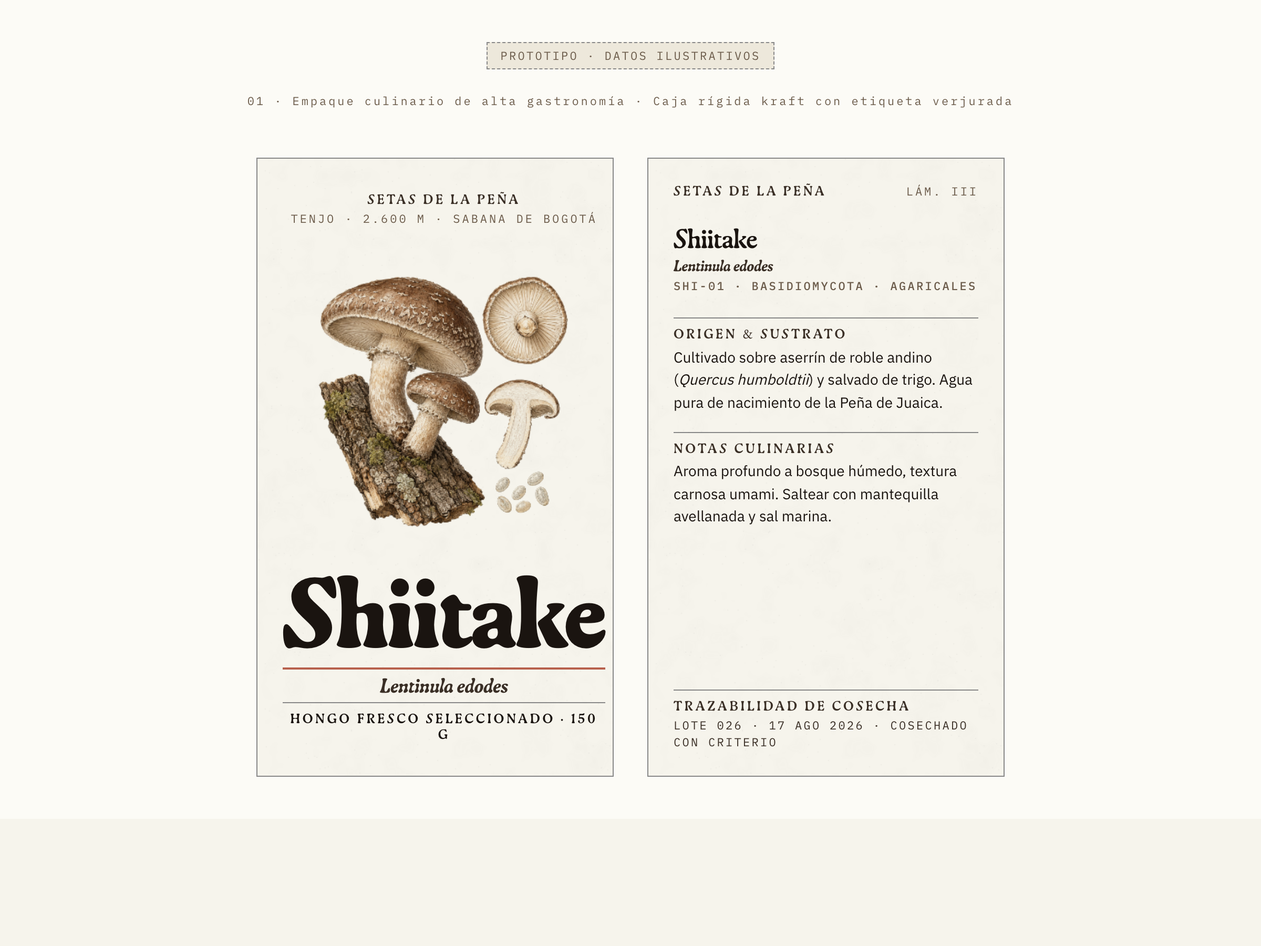
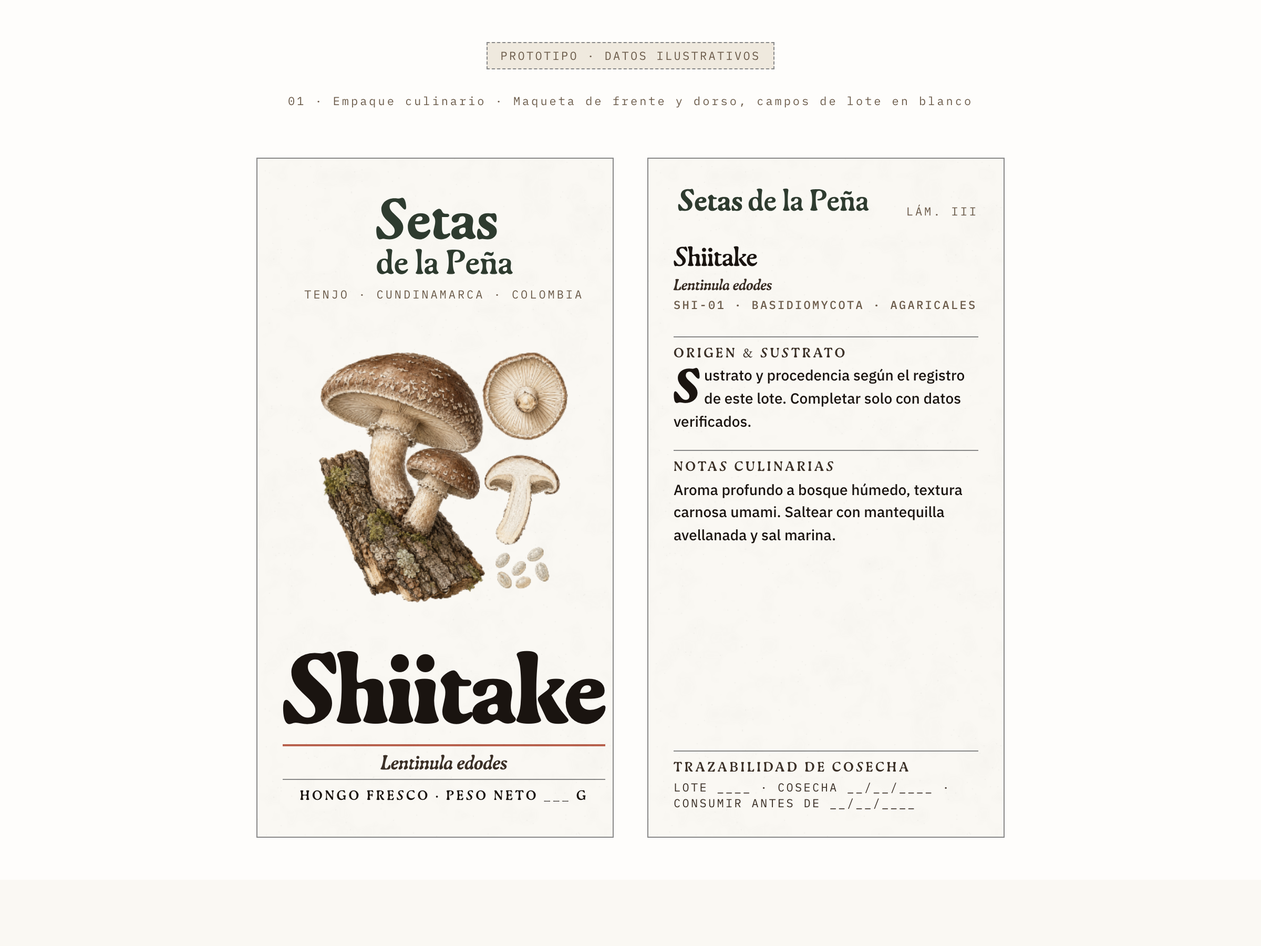
fix(ds-2026): maquetas de mercado sin datos inventados ni tuteo
- Empaque: se retira Quercus humboldtii (veda nacional, Res. 316/1974),
  «agua pura de nacimiento», lote, fecha y peso inventados; campos de lote en
  blanco y firma apilada/horizontal desde los SVG del kit.
- Tablero de marca: «Cultivadas en la Sabana. Cosechadas con criterio.» se
  reemplaza por la frase principal y el descriptor vigentes; firma territorial
  y peso de muestra en blanco.
- Manual del kit y maqueta 17: textos sin tuteo; titular «Conocer la seta.
  Imaginar el plato.».
- PNG regenerados con scripts/render.mjs; copia de Setas OS sincronizada con
  sync-consumers.mjs.

diff --git a/08_brand/ds-2026/brand-kit/index.html b/08_brand/ds-2026/brand-kit/index.html
@@ -39,7 +39,7 @@
     <div class="chapter wrap"><p class="t-label">Ingrediente. Preparación. Origen.</p><p class="t-small">Chefs primero. También en casa.</p></div>
 
     <section class="section wrap" id="criterio" aria-labelledby="criterio-title">
-      <div class="section-heading"><p class="t-label">01 / La marca</p><h2 id="criterio-title">Conoce la seta.<br>Imagina el plato.</h2></div>
+      <div class="section-heading"><p class="t-label">01 / La marca</p><h2 id="criterio-title">Conocer la seta.<br>Imaginar el plato.</h2></div>
       <div class="two-col intro-grid"><p class="lede">Hongos desde Tenjo. Láminas para reconocerlos. Ideas para llevarlos a la cocina.</p><div><p>El conocimiento empieza en la especie y encuentra su lugar en el plato: shiitake con maíz, coco o plátano.</p><p>Primero hablamos a chefs y equipos de cocina: preparación, cantidad y consulta. Quienes cocinan en casa encuentran la misma claridad a través de las recetas. La información de una cosecha se confirma por separado.</p></div></div>
       <div class="pillars"><article><span class="t-data">01</span><h3>El ingrediente</h3><p>Nombre, silueta y textura. Cada especie tiene una forma de entrar en la cocina.</p></article><article><span class="t-data">02</span><h3>La preparación</h3><p>Ideas concretas, ingredientes cercanos y cantidades que se pueden entender.</p></article><article><span class="t-data">03</span><h3>El origen</h3><p>Un lugar y un proceso contados con información que podemos comprobar.</p></article></div>
       <aside class="note"><strong>Una sola marca.</strong> Las setas, En la cocina, Origen y El cuaderno son secciones. Setas OS conserva su función operativa.</aside>
@@ -52,7 +52,7 @@
         <article><p class="t-label">Especie y preparación</p><h3>Smallhold</h3><p>Perfil y técnica junto al nombre. Para Setas: lámina reconocible y una idea de plato.</p><a href="https://smallhold.com/pages/our-mushrooms" target="_blank" rel="noopener noreferrer">Ver la ficha de especies ↗</a></article>
         <article><p class="t-label">Conversación profesional</p><h3>Foraged · Far West Fungi</h3><p>Preguntas de formato, volumen y entrega. Para Setas: preparar una consulta útil para el chef.</p><a href="https://wholesale.foraged.com/" target="_blank" rel="noopener noreferrer">Ver la ruta profesional ↗</a></article>
         <article><p class="t-label">Información del ingrediente</p><h3>Burlap &amp; Barrel</h3><p>Sabor, uso y origen juntos. Para Setas: pocos datos, claros y respaldados.</p><a href="https://www.burlapandbarrel.com/products/wild-mountain-cumin" target="_blank" rel="noopener noreferrer">Ver una ficha de producto ↗</a></article>
-        <article><p class="t-label">Aprendizaje accesible</p><h3>North Spore</h3><p>Elegir según la intención. Para Setas: empezar por lo que quieres cocinar.</p><a href="https://northspore.com/" target="_blank" rel="noopener noreferrer">Ver el referente ↗</a></article>
+        <article><p class="t-label">Aprendizaje accesible</p><h3>North Spore</h3><p>Elegir según la intención. Para Setas: empezar por la preparación.</p><a href="https://northspore.com/" target="_blank" rel="noopener noreferrer">Ver el referente ↗</a></article>
         <article><p class="t-label">Contexto colombiano</p><h3>Setas de Cuivá</h3><p>Casa y negocio tienen rutas distintas. Para Setas: una marca, dos maneras de entrar.</p><a href="https://www.champinonessetasdecuiva.com/para-tu-negocio/" target="_blank" rel="noopener noreferrer">Ver la entrada para negocio ↗</a></article>
         <article><p class="t-label">Jerarquía editorial</p><h3>Goldi · God Soppjakt!</h3><p>Título expresivo y categoría legible. Para Setas: Gaya da carácter; IBM ayuda a decidir.</p><a href="https://fontsinuse.com/uses/61619/god-soppjakt-by-mette-alstad" target="_blank" rel="noopener noreferrer">Ver el caso tipográfico ↗</a></article>
       </div>
@@ -70,7 +70,7 @@
 
     <section class="section wrap" id="sistema" aria-labelledby="sistema-title">
       <div class="section-heading"><p class="t-label">04 / Tipos y pigmentos</p><h2 id="sistema-title">Carácter y claridad.</h2></div>
-      <div class="type-grid"><article><p class="t-label">Gaya / títulos y firma</p><p class="gaya-sample">La textura también<br>es un ingrediente.</p><p class="t-latin">Lentinula edodes</p></article><article><p class="t-label">IBM Plex Sans / lectura</p><p class="sans-sample">Elige por su textura.<br>Cocina con intención.</p><p>Texto claro para instrucciones, consulta y navegación. Un cuerpo de lectura de al menos 16 px.</p></article><article><p class="t-label">IBM Plex Mono / datos</p><p class="mono-sample">300 g<br>×1 / ×2 / ×3</p><p>Cantidades de receta, rótulos y registros. Nunca un párrafo completo en mayúsculas.</p></article></div>
+      <div class="type-grid"><article><p class="t-label">Gaya / títulos y firma</p><p class="gaya-sample">La textura también<br>es un ingrediente.</p><p class="t-latin">Lentinula edodes</p></article><article><p class="t-label">IBM Plex Sans / lectura</p><p class="sans-sample">Elegir por su textura.<br>Cocinar con intención.</p><p>Texto claro para instrucciones, consulta y navegación. Un cuerpo de lectura de al menos 16 px.</p></article><article><p class="t-label">IBM Plex Mono / datos</p><p class="mono-sample">300 g<br>×1 / ×2 / ×3</p><p>Cantidades de receta, rótulos y registros. Nunca un párrafo completo en mayúsculas.</p></article></div>
       <div class="palette"><figure><div class="swatch paper"></div><figcaption>Papel <code>#FAF8F3</code></figcaption></figure><figure><div class="swatch ink"></div><figcaption>Tinta <code>#1A1410</code></figcaption></figure><figure><div class="swatch moss"></div><figcaption>Musgo <code>#2E3B2F</code></figcaption></figure><figure><div class="swatch coral"></div><figcaption>Terracota <code>#B8614D</code></figcaption></figure><figure><div class="swatch slate"></div><figcaption>Pizarra <code>#4E6A7A</code></figcaption></figure></div>
       <p class="note">Papel y tinta dominan; musgo identifica; terracota aparece puntualmente. Para texto pequeño de acento, usar terracota oscura <code>#8A3E2D</code>. La reproducción de imprenta requiere perfil y prueba física.</p>
     </section>
@@ -83,8 +83,8 @@
 
     <section class="section wrap" id="voz" aria-labelledby="voz-title">
       <div class="section-heading"><p class="t-label">06 / La voz</p><h2 id="voz-title">Cercana.<br>Cuidadosa. Precisa.</h2></div>
-      <div class="voice-grid"><article><p class="t-label">Para una cocina profesional</p><h3>Hablemos de<br>tu cocina.</h3><p>¿En qué plato estás pensando? Cuéntanos cuánto necesitas, en qué ciudad y para qué fecha. Presentación y condiciones se confirman al consultar.</p><span class="example-action">Consultar para mi cocina ↗</span></article><article><p class="t-label">Para cocinar en casa</p><h3>¿Qué quieres<br>cocinar?</h3><p>Shiitake, maíz dorado y aguacate. Empieza por la receta y calcula cuánto necesitas antes de preparar tu consulta.</p><span class="example-action">Quiero cocinar esto ↗</span></article></div>
-      <div class="two-col voice-notes"><div><h3>Decir lo que sabemos</h3><p>«Disponibilidad por confirmar. Consulta antes de planear tu pedido.»</p><p>«Adaptación de fuentes publicadas, pendiente de prueba en cocina.»</p></div><div><h3>Con palabras concretas</h3><p>Especie, textura, receta, cantidad, cosecha y origen. Explicar los términos que ayudan a decidir.</p><p>Las promesas de stock, certificación o beneficios medicinales no se deducen de una imagen.</p></div></div>
+      <div class="voice-grid"><article><p class="t-label">Para una cocina profesional</p><h3>Hablemos<br>del plato.</h3><p>¿Para qué plato y qué servicio? Con cantidad, ciudad y fecha revisamos disponibilidad. Presentación y condiciones se confirman al consultar.</p><span class="example-action">Consultar para mi cocina ↗</span></article><article><p class="t-label">Para cocinar en casa</p><h3>¿Qué cocinar<br>en casa?</h3><p>Shiitake, maíz dorado y aguacate. Primero la receta; después, la cantidad para la consulta.</p><span class="example-action">Quiero cocinar esto ↗</span></article></div>
+      <div class="two-col voice-notes"><div><h3>Decir lo que sabemos</h3><p>«Disponibilidad por confirmar. Consultar antes de planear el pedido.»</p><p>«Adaptación de fuentes publicadas, pendiente de prueba en cocina.»</p></div><div><h3>Con palabras concretas</h3><p>Especie, textura, receta, cantidad, cosecha y origen. Explicar los términos que ayudan a decidir.</p><p>Las promesas de stock, certificación o beneficios medicinales no se deducen de una imagen.</p></div></div>
     </section>
 
     <section class="section wrap" id="aplicaciones" data-mode="culinary" aria-labelledby="aplicaciones-title">
@@ -92,7 +92,7 @@
       <p class="section-intro">Composiciones de referencia para adaptar con datos reales. La especie y su uso entran primero; la información comercial se confirma.</p>
       <article class="sdp-ingredient-sheet" aria-labelledby="chef-title">
         <header class="sdp-ingredient-sheet__header"><img src="assets/wordmark-horizontal-moss.svg" alt="Setas de la Peña" width="400" height="80"><p class="t-label">Ficha para cocina / maqueta</p></header>
-        <div class="sdp-ingredient-sheet__body"><figure class="sdp-ingredient-sheet__plate"><img src="../assets/img/species/shiitake.png" alt="Ilustración de shiitake para ficha de cocina" width="700" height="700"><figcaption class="t-label">Ilustración de especie</figcaption></figure><div class="sdp-ingredient-sheet__copy"><p class="t-label">Ingrediente / 001</p><h3 class="sdp-ingredient-sheet__title" id="chef-title">Shiitake</h3><p class="t-latin">Lentinula edodes</p><p class="t-body">¿Qué lugar le darías en tu plato?</p><dl class="sdp-ingredient-sheet__facts"><div><dt>Perfil de referencia</dt><dd>Umami intenso y notas ahumadas. Referencia: Smallhold; no es una cata propia.</dd></div><div><dt>En cocina</dt><dd>Arepa y patacones con shiitake salteado; sopa de coco y jengibre. Adaptaciones pendientes de prueba.</dd></div><div><dt>Para conversar</dt><dd>Plato, cantidad, presentación deseada, ciudad y fecha.</dd></div><div><dt>Antes del pedido</dt><dd>Confirmar formato, precio, disponibilidad y entrega.</dd></div></dl><a class="sdp-btn sdp-btn--primary" href="../../../shiitake.html#producto">Preparar mi consulta ↗</a><p class="sdp-ingredient-sheet__note">Prepara un mensaje sin enviarlo. Canal comercial por confirmar.</p></div></div>
+        <div class="sdp-ingredient-sheet__body"><figure class="sdp-ingredient-sheet__plate"><img src="../assets/img/species/shiitake.png" alt="Ilustración de shiitake para ficha de cocina" width="700" height="700"><figcaption class="t-label">Ilustración de especie</figcaption></figure><div class="sdp-ingredient-sheet__copy"><p class="t-label">Ingrediente / 001</p><h3 class="sdp-ingredient-sheet__title" id="chef-title">Shiitake</h3><p class="t-latin">Lentinula edodes</p><p class="t-body">¿Qué lugar tiene en el plato?</p><dl class="sdp-ingredient-sheet__facts"><div><dt>Perfil de referencia</dt><dd>Umami intenso y notas ahumadas. Referencia: Smallhold; no es una cata propia.</dd></div><div><dt>En cocina</dt><dd>Arepa y patacones con shiitake salteado; sopa de coco y jengibre. Adaptaciones pendientes de prueba.</dd></div><div><dt>Para conversar</dt><dd>Plato, cantidad, presentación deseada, ciudad y fecha.</dd></div><div><dt>Antes del pedido</dt><dd>Confirmar formato, precio, disponibilidad y entrega.</dd></div></dl><a class="sdp-btn sdp-btn--primary" href="../../../shiitake.html#producto">Preparar mi consulta ↗</a><p class="sdp-ingredient-sheet__note">Prepara un mensaje sin enviarlo. Canal comercial por confirmar.</p></div></div>
         <footer class="sdp-ingredient-sheet__footer"><p class="t-small">Origen del proyecto: Tenjo. Una cosecha concreta requiere lote y fecha.</p><a href="https://smallhold.com/pages/our-mushrooms" rel="noopener noreferrer" target="_blank">Referencia culinaria ↗</a></footer>
       </article>
       <div class="application-grid"><article class="packaging-example"><p class="t-label">Frente de empaque / maqueta</p><div class="package"><img class="package-wordmark" src="assets/wordmark-stacked-moss.svg" alt="Setas de la Peña" width="260" height="180"><h3>Shiitake</h3><p class="t-latin">Lentinula edodes</p><img class="package-specimen" src="../assets/img/species/shiitake.png" alt="Ilustración de shiitake para empaque" width="400" height="400"><dl><div><dt>Peso neto</dt><dd>Completar al empacar</dd></div><div><dt>Lote y fecha</dt><dd>Completar al empacar</dd></div></dl><p class="t-label">Tenjo · Colombia<br>Origen del proyecto</p></div><p class="t-small">Completar datos, responsable, conservación y requisitos aplicables antes de imprimir. Sin lote, peso de venta ni QR ficticios.</p></article><article class="recipe-example"><p class="t-label">Tarjeta de receta / maqueta</p><div class="recipe-card"><p class="t-label">En la cocina / 01</p><h3>Arepa con<br>shiitake.</h3><img src="../../../assets/illustrations/culinary/arepa-shiitake-gouache.webp" alt="Ilustración culinaria de arepa con shiitake y aguacate" width="1254" height="1254"><p class="t-data">300 g de shiitake · receta base</p><p>Maíz dorado, aguacate y limón.</p><a class="sdp-btn" href="../../../recetas.html#receta-arepa">Ver ingredientes y pasos ↗</a><p class="t-small">Ilustración culinaria. Adaptación pendiente de prueba en cocina.</p></div><p class="t-small">La receta invita a preparar; la consulta confirma cantidad y condiciones. Mantener las fuentes y el aviso de estimación.</p></article></div>
@@ -102,10 +102,10 @@
       <div class="section-heading"><p class="t-label">08 / Lámina, nota y plato</p><h2 id="piezas-title">Una seta.<br>Una idea de cocina.</h2></div>
       <p class="section-intro">Dos piezas que pueden acompañarse en un cuaderno, una presentación o una publicación. El grabado identifica; el gouache invita a preparar. Maquetas para revisión interna.</p>
       <div class="sdp-editorial-pair">
-        <article class="sdp-editorial-card" id="pieza-seta" aria-labelledby="pieza-seta-title"><header class="sdp-editorial-card__header"><img src="assets/wordmark-horizontal-moss.svg" alt="Setas de la Peña" width="400" height="80"><span class="t-data">01 / La seta</span></header><h3 class="sdp-editorial-card__title" id="pieza-seta-title">Shiitake.</h3><p class="t-latin">Lentinula edodes</p><img class="sdp-editorial-card__image" src="../assets/img/species/shiitake.png" alt="Grabado de shiitake con sombreros y láminas reconocibles" width="800" height="800"><div class="sdp-editorial-card__note"><p class="t-label">Del ingrediente al plato</p><p class="sdp-editorial-card__line">Conoce la seta.<br>Imagina el plato.</p></div><footer class="sdp-editorial-card__footer">Ilustración de especie · Tenjo, origen del proyecto.</footer></article>
+        <article class="sdp-editorial-card" id="pieza-seta" aria-labelledby="pieza-seta-title"><header class="sdp-editorial-card__header"><img src="assets/wordmark-horizontal-moss.svg" alt="Setas de la Peña" width="400" height="80"><span class="t-data">01 / La seta</span></header><h3 class="sdp-editorial-card__title" id="pieza-seta-title">Shiitake.</h3><p class="t-latin">Lentinula edodes</p><img class="sdp-editorial-card__image" src="../assets/img/species/shiitake.png" alt="Grabado de shiitake con sombreros y láminas reconocibles" width="800" height="800"><div class="sdp-editorial-card__note"><p class="t-label">Del ingrediente al plato</p><p class="sdp-editorial-card__line">Conocer la seta.<br>Imaginar el plato.</p></div><footer class="sdp-editorial-card__footer">Ilustración de especie · Tenjo, origen del proyecto.</footer></article>
         <article class="sdp-editorial-card sdp-editorial-card--dish" id="pieza-plato" aria-labelledby="pieza-plato-title"><header class="sdp-editorial-card__header"><img src="assets/wordmark-horizontal-moss.svg" alt="Setas de la Peña" width="400" height="80"><span class="t-data">02 / El plato</span></header><h3 class="sdp-editorial-card__title" id="pieza-plato-title">Arepa con<br>shiitake.</h3><p>Maíz dorado, aguacate y limón.</p><img class="sdp-editorial-card__image" src="../../../assets/illustrations/culinary/arepa-shiitake-gouache.webp" alt="Gouache de arepa con shiitake, maíz y aguacate" width="1254" height="1254"><div class="sdp-editorial-card__note"><p class="t-data">300 g de shiitake · receta base</p><a href="../../../recetas.html#receta-arepa">Ver ingredientes y pasos ↗</a></div><footer class="sdp-editorial-card__footer">Ilustración culinaria · Adaptación pendiente de prueba.</footer></article>
       </div>
-      <aside class="sdp-chef-brief" aria-labelledby="chef-intro-title"><div><p class="t-label">Para chefs y equipos de cocina</p><h3 class="sdp-chef-brief__title" id="chef-intro-title">Tu plato es<br>el punto de partida.</h3><p>Especie y preparación primero. Después, cantidad, presentación y entrega.</p></div><div><p class="t-label">Una consulta útil reúne</p><ol class="sdp-chef-brief__list"><li>Especie y plato que quieres preparar</li><li>Cantidad solicitada</li><li>Presentación deseada</li><li>Ciudad de entrega</li><li>Fecha requerida</li></ol><a class="sdp-btn" href="../../../shiitake.html#producto">Preparar mi consulta ↗</a><p class="sdp-chef-brief__note">Esta pauta es una propuesta para conversar. La web actual permite indicar destino, cantidad y municipio; los otros detalles se acuerdan por separado. Preparar un mensaje no lo envía.</p></div></aside>
+      <aside class="sdp-chef-brief" aria-labelledby="chef-intro-title"><div><p class="t-label">Para chefs y equipos de cocina</p><h3 class="sdp-chef-brief__title" id="chef-intro-title">El plato es<br>el punto de partida.</h3><p>Especie y preparación primero. Después, cantidad, presentación y entrega.</p></div><div><p class="t-label">Una consulta útil reúne</p><ol class="sdp-chef-brief__list"><li>Especie y plato por preparar</li><li>Cantidad solicitada</li><li>Presentación deseada</li><li>Ciudad de entrega</li><li>Fecha requerida</li></ol><a class="sdp-btn" href="../../../shiitake.html#producto">Preparar mi consulta ↗</a><p class="sdp-chef-brief__note">Esta pauta es una propuesta para conversar. La web actual permite indicar destino, cantidad y municipio; los otros detalles se acuerdan por separado. Preparar un mensaje no lo envía.</p></div></aside>
     </section>
 
     <section class="section wrap resources" id="recursos" aria-labelledby="recursos-title">

diff --git a/08_brand/ds-2026/mockups/market/17-culinary-market.html b/08_brand/ds-2026/mockups/market/17-culinary-market.html
@@ -23,8 +23,8 @@
     <header class="sdp-market-intro">
       <p class="sdp-market-wordmark">Setas <span>de la Peña</span></p>
       <p class="t-label">DS-2026 · Mercado y cocina · Tenjo, Colombia</p>
-      <h1 class="sdp-market-intro__title">Conoce la seta.<br>Imagina el plato.</h1>
-      <p class="sdp-market-intro__copy">Hongos para cocinar con criterio. Láminas para reconocer la especie, recetas para imaginar su uso y una conversación clara para tu cocina.</p>
+      <h1 class="sdp-market-intro__title">Conocer la seta.<br>Imaginar el plato.</h1>
+      <p class="sdp-market-intro__copy">Hongos para cocinar con criterio. Láminas para reconocer la especie, recetas para imaginar su uso y una conversación clara para cada cocina.</p>
       <div class="sdp-market-intro__actions"><a class="sdp-btn sdp-btn--primary" href="#ingrediente">Conocer el shiitake ↓</a><a class="sdp-btn" href="#chefs">Para chefs ↓</a></div>
       <p class="demo-source t-small">Ejemplos de componentes, sin oferta de venta. Ilustraciones de especie y cocina; disponibilidad por confirmar.</p>
     </header>
@@ -34,7 +34,7 @@
         <header class="sdp-ingredient-sheet__header"><p class="sdp-market-wordmark">Setas <span>de la Peña</span></p><p class="t-label">Ficha para cocina / referencia</p></header>
         <div class="sdp-ingredient-sheet__body">
           <figure class="sdp-ingredient-sheet__plate"><img src="../../assets/img/species/shiitake.png" alt="Grabado de shiitake, con sombreros y láminas visibles" width="800" height="800"><figcaption class="t-label">Ilustración de especie</figcaption></figure>
-          <div class="sdp-ingredient-sheet__copy"><h3 class="sdp-ingredient-sheet__title" id="shiitake-title">Shiitake</h3><p class="t-latin">Lentinula edodes</p><p>¿Qué lugar le darías en tu plato?</p>
+          <div class="sdp-ingredient-sheet__copy"><h3 class="sdp-ingredient-sheet__title" id="shiitake-title">Shiitake</h3><p class="t-latin">Lentinula edodes</p><p>¿Qué lugar tiene en el plato?</p>
             <dl class="sdp-ingredient-sheet__facts"><div><dt>Perfil de referencia</dt><dd>Umami intenso y notas ligeramente ahumadas, según Smallhold. No es una cata de nuestro producto.</dd></div><div><dt>Ideas de preparación</dt><dd>Arepa, sopa de coco y patacones. Adaptaciones pendientes de prueba en cocina.</dd></div><div><dt>Antes del pedido</dt><dd>Formato, precio, disponibilidad y entrega por confirmar.</dd></div></dl>
             <a class="sdp-btn sdp-btn--primary" href="../../../../shiitake.html">Preparar mi consulta ↗</a><p class="sdp-ingredient-sheet__note">La web prepara un mensaje; no lo envía. El canal comercial está por confirmar.</p>
           </div>
@@ -45,13 +45,13 @@
     <section id="plato" aria-labelledby="plato-title">
       <div class="demo-heading"><p class="t-label">02 / Lámina, nota y plato</p><h2 id="plato-title">El ingrediente<br>encuentra una preparación.</h2></div>
       <div class="sdp-editorial-pair">
-        <article class="sdp-editorial-card"><header class="sdp-editorial-card__header"><span class="sdp-market-wordmark">Setas <span>de la Peña</span></span><span class="t-data">01 / La seta</span></header><h3 class="sdp-editorial-card__title">Shiitake.</h3><p class="t-latin">Lentinula edodes</p><img class="sdp-editorial-card__image" src="../../assets/img/species/shiitake.png" alt="Lámina ilustrada de shiitake" width="800" height="800"><div class="sdp-editorial-card__note"><p class="t-label">Del ingrediente al plato</p><p class="sdp-editorial-card__line">Conoce la seta.<br>Imagina el plato.</p></div><footer class="sdp-editorial-card__footer">Ilustración de especie · Tenjo, origen del proyecto.</footer></article>
+        <article class="sdp-editorial-card"><header class="sdp-editorial-card__header"><span class="sdp-market-wordmark">Setas <span>de la Peña</span></span><span class="t-data">01 / La seta</span></header><h3 class="sdp-editorial-card__title">Shiitake.</h3><p class="t-latin">Lentinula edodes</p><img class="sdp-editorial-card__image" src="../../assets/img/species/shiitake.png" alt="Lámina ilustrada de shiitake" width="800" height="800"><div class="sdp-editorial-card__note"><p class="t-label">Del ingrediente al plato</p><p class="sdp-editorial-card__line">Conocer la seta.<br>Imaginar el plato.</p></div><footer class="sdp-editorial-card__footer">Ilustración de especie · Tenjo, origen del proyecto.</footer></article>
         <article class="sdp-editorial-card sdp-editorial-card--dish"><header class="sdp-editorial-card__header"><span class="sdp-market-wordmark">Setas <span>de la Peña</span></span><span class="t-data">02 / El plato</span></header><h3 class="sdp-editorial-card__title">Arepa con<br>shiitake.</h3><p>Maíz dorado, aguacate y limón.</p><img class="sdp-editorial-card__image" src="../../assets/img/culinary/arepa-shiitake-gouache.webp" alt="Gouache con lápiz de una arepa con shiitake, maíz y aguacate" width="1254" height="1254"><div class="sdp-editorial-card__note"><p class="t-data">300 g de shiitake · receta base</p><a href="../../../../recetas.html">Ver ingredientes y pasos ↗</a></div><footer class="sdp-editorial-card__footer">Ilustración culinaria · Adaptación pendiente de prueba.</footer></article>
       </div>
     </section>
     <section id="chefs" aria-labelledby="chefs-title">
-      <div class="demo-heading"><p class="t-label">03 / Cocina profesional</p><h2 id="chefs-title">Tu plato es<br>el punto de partida.</h2></div>
-      <aside class="sdp-chef-brief" aria-labelledby="chef-brief-title"><div><p class="t-label">Para chefs y equipos de cocina</p><h3 class="sdp-chef-brief__title" id="chef-brief-title">Hablemos de<br>tu cocina.</h3><p>Especie y preparación primero. Después, cantidad, presentación y entrega.</p></div><div><p class="t-label">Una consulta útil reúne</p><ol class="sdp-chef-brief__list"><li>Especie y plato que quieres preparar</li><li>Cantidad solicitada</li><li>Presentación deseada</li><li>Ciudad de entrega</li><li>Fecha requerida</li></ol><a class="sdp-btn" href="../../../../shiitake.html">Preparar mi consulta ↗</a><p class="sdp-chef-brief__note">Pauta para conversar, sin envío automático ni promesa de stock. El formulario actual reúne destino, cantidad y municipio; los demás detalles se acuerdan por separado.</p></div></aside>
+      <div class="demo-heading"><p class="t-label">03 / Cocina profesional</p><h2 id="chefs-title">El plato es<br>el punto de partida.</h2></div>
+      <aside class="sdp-chef-brief" aria-labelledby="chef-brief-title"><div><p class="t-label">Para chefs y equipos de cocina</p><h3 class="sdp-chef-brief__title" id="chef-brief-title">Hablemos<br>del plato.</h3><p>Especie y preparación primero. Después, cantidad, presentación y entrega.</p></div><div><p class="t-label">Una consulta útil reúne</p><ol class="sdp-chef-brief__list"><li>Especie y plato por preparar</li><li>Cantidad solicitada</li><li>Presentación deseada</li><li>Ciudad de entrega</li><li>Fecha requerida</li></ol><a class="sdp-btn" href="../../../../shiitake.html">Preparar mi consulta ↗</a><p class="sdp-chef-brief__note">Pauta para conversar, sin envío automático ni promesa de stock. El formulario actual reúne destino, cantidad y municipio; los demás detalles se acuerdan por separado.</p></div></aside>
     </section>
     <footer class="demo-source"><p class="t-small">Referentes: Smallhold, Foraged, Far West Fungi, North Spore, Burlap &amp; Barrel y casos Gaya. <a href="../../../../docs/brand/competitive-research-2026-10.md">Investigación y límites ↗</a></p><p class="t-small">Grabados para especie; gouache para preparación. Datos de producto y licencia comercial de Gaya pendientes antes de producción.</p></footer>
   </main>

diff --git a/08_brand/ds-2026/mockups/market/01-packaging.html b/08_brand/ds-2026/mockups/market/01-packaging.html
@@ -9,30 +9,35 @@
     .pack-stage { display: flex; gap: 32px; justify-content: center; flex-wrap: wrap; }
     .pack-unit { width: 340px; }
   </style>
+  <style>
+    .pack-wordmark { display: block; height: auto; }
+    .pack-wordmark--stacked { width: 140px; margin-inline: auto; }
+    .pack-wordmark--horizontal { width: 190px; }
+  </style>
 </head>
 <body data-mode="archive" data-content-status="illustrative">
   <div class="stage stage--col">
-    <div class="spec">01 · Empaque culinario de alta gastronomía · Caja rígida kraft con etiqueta verjurada</div>
+    <div class="spec">01 · Empaque culinario · Maqueta de frente y dorso, campos de lote en blanco</div>
 
     <div class="pack-stage">
       <!-- Frente: Shiitake -->
       <div class="sdp-pack sdp-pack--front pack-unit grain">
         <div>
-          <div class="sdp-pack__brand">Setas de la Peña</div>
-          <div class="t-micro" style="margin-top: 4px;">TENJO · 2.600 M · SABANA DE BOGOTÁ</div>
+          <img class="pack-wordmark pack-wordmark--stacked" src="../../brand-kit/assets/wordmark-stacked-moss.svg" alt="Setas de la Peña">
+          <div class="t-micro" style="margin-top: 8px;">TENJO · CUNDINAMARCA · COLOMBIA</div>
         </div>
         <img class="sdp-pack__illo engraving" src="../../assets/img/species/shiitake.png" alt="Shiitake">
         <div class="sdp-species" style="justify-items: center; width: 100%;">
           <div class="sdp-species__common">Shiitake</div>
           <div class="sdp-species__latin">Lentinula edodes</div>
-          <div class="sdp-pack__net">HONGO FRESCO SELECCIONADO · 150 G</div>
+          <div class="sdp-pack__net">HONGO FRESCO · PESO NETO ___ G</div>
         </div>
       </div>
 
       <!-- Dorso: Trazabilidad & Ficha de Origen -->
       <div class="sdp-pack sdp-pack--back pack-unit grain">
         <div style="display: flex; justify-content: space-between; align-items: baseline;">
-          <div class="sdp-pack__brand">Setas de la Peña</div>
+          <img class="pack-wordmark pack-wordmark--horizontal" src="../../brand-kit/assets/wordmark-horizontal-moss.svg" alt="Setas de la Peña">
           <div class="t-micro">LÁM. III</div>
         </div>
 
@@ -44,7 +49,7 @@
 
         <div class="sdp-pack__sect">
           <span class="sdp-pack__sk">Origen & Sustrato</span>
-          <span class="sdp-pack__sv">Cultivado sobre aserrín de roble andino (<i>Quercus humboldtii</i>) y salvado de trigo. Agua pura de nacimiento de la Peña de Juaica.</span>
+          <span class="sdp-pack__sv">Sustrato y procedencia según el registro de este lote. Completar solo con datos verificados.</span>
         </div>
 
         <div class="sdp-pack__sect">
@@ -54,7 +59,7 @@
 
         <div class="sdp-pack__sect" style="margin-top: auto;">
           <span class="sdp-pack__sk">Trazabilidad de Cosecha</span>
-          <div class="sdp-statusline" style="font-size: 11px;">LOTE 026 · 17 AGO 2026 · COSECHADO CON CRITERIO</div>
+          <div class="sdp-statusline" style="font-size: 11px;">LOTE ____ · COSECHA __/__/____ · CONSUMIR ANTES DE __/__/____</div>
         </div>
       </div>
     </div>

diff --git a/08_brand/ds-2026/mockups/market/04-brand-board.html b/08_brand/ds-2026/mockups/market/04-brand-board.html
@@ -44,13 +44,13 @@
     <div class="deck-container">
       <header class="deck-header">
         <div><h1>Setas de la Peña</h1><div class="t-label">DS-2026 · Criterio · Sistema de marca</div></div>
-        <div class="t-micro">Tenjo · Sabana de Bogotá</div>
+        <div class="t-micro">Tenjo · Cundinamarca · Colombia</div>
       </header>
       <div class="deck-grid">
         <section class="deck-panel deck-cover">
           <h2>01 / Firma principal</h2>
           <p class="deck-wordmark">Setas<br>de la Peña</p>
-          <p class="t-small">Cultivadas en la Sabana. Cosechadas con criterio.</p>
+          <p class="t-small">Del micelio a la mesa. Hongos para cocinar con criterio.</p>
         </section>
         <section class="deck-panel">
           <h2>02 / Herbario</h2>
@@ -72,9 +72,9 @@
         <section class="deck-panel">
           <h2>04 / Tipos y pigmentos</h2>
           <div class="deck-type">
-            <div><div class="t-micro">Gaya Patched · editorial</div><div class="deck-signature">Cultivo con criterio</div></div>
-            <div><div class="t-micro">IBM Plex Sans · lectura y acción</div><div class="t-small">Registrar una cosecha</div></div>
-            <div><div class="t-micro">IBM Plex Mono · datos</div><div class="t-data">SHI-01 · 14,25 kg</div></div>
+            <div><div class="t-micro">Gaya Patched · editorial</div><div class="deck-signature">Conocer la seta</div></div>
+            <div><div class="t-micro">IBM Plex Sans · lectura y acción</div><div class="t-small">Consultar disponibilidad</div></div>
+            <div><div class="t-micro">IBM Plex Mono · datos</div><div class="t-data">SHI-01 · __ kg</div></div>
           </div>
           <div class="deck-swatches">
             <figure class="deck-swatch"><div class="deck-chip deck-chip--paper"></div><figcaption>PAPER</figcaption></figure>
@@ -85,7 +85,7 @@
           </div>
         </section>
         <section class="deck-panel">
-          <h2>05 / Del campo a la mesa</h2>
+          <h2>05 / Del micelio a la mesa</h2>
           <p class="deck-essence">El origen se registra.<br>La especie se reconoce.</p>
           <p class="t-small">Código, especie y procedencia acompañan la lectura culinaria.</p>
           <p class="t-micro">Tenjo · Cundinamarca</p>

diff --git a/08_brand/ds-2026/brand-kit/README.md b/08_brand/ds-2026/brand-kit/README.md
@@ -20,7 +20,7 @@ URL local: `http://127.0.0.1:4187/08_brand/ds-2026/brand-kit/`. El servidor perm
 - `build_wordmarks.py`: generador de contornos; requiere `fontTools` en las herramientas. No es dependencia de la web.
 - `brand-kit.css`: composición del manual; importa tokens y fuentes desde `../market.css`.
 
-La edición 1.1 concreta la propuesta «Conoce la seta. Imagina el plato», documenta decisiones de diez marcas y añade una pareja editorial y una presentación para chefs. No cambia las firmas, las ilustraciones aprobadas o los tokens. El manual diferencia la pauta comercial de cinco datos del formulario web actual; preparar un mensaje no lo envía.
+La edición 1.1 concreta la propuesta «Conocer la seta. Imaginar el plato», documenta decisiones de diez marcas y añade una pareja editorial y una presentación para chefs. No cambia las firmas, las ilustraciones aprobadas o los tokens. El manual diferencia la pauta comercial de cinco datos del formulario web actual; preparar un mensaje no lo envía.
 
 Regenerar firmas si cambian las fuentes o primitivas:
 

diff --git a/08_brand/ds-2026/PROFILES.md b/08_brand/ds-2026/PROFILES.md
@@ -58,7 +58,7 @@ Diseñado para láminas de especies y documentación editorial. Una ilustración
 
 ## 4. Perfil `culinary` (cocina, mercado y packaging)
 
-Diseñado para fichas de ingrediente, recetas, consulta para chefs, presentaciones y empaque. «Conoce la seta. Imagina el plato.» es el principio de lectura: especie → preparación → siguiente paso.
+Diseñado para fichas de ingrediente, recetas, consulta para chefs, presentaciones y empaque. «Conocer la seta. Imaginar el plato.» es el principio de lectura: especie → preparación → siguiente paso.
 
 - **Contratos obligatorios:**
   - Papel `--surface-page`, tinta `--text-primary`, firma/acción `--brand-primary`. Terracota gráfica `--brand-accent`; texto de acento `--brand-accent-text`. Los valores vienen de los tokens vigentes, no de hex históricos.

diff --git a/field-os-simulador/setas-os/ds-2026/PROFILES.md b/field-os-simulador/setas-os/ds-2026/PROFILES.md
@@ -58,7 +58,7 @@ Diseñado para láminas de especies y documentación editorial. Una ilustración
 
 ## 4. Perfil `culinary` (cocina, mercado y packaging)
 
-Diseñado para fichas de ingrediente, recetas, consulta para chefs, presentaciones y empaque. «Conoce la seta. Imagina el plato.» es el principio de lectura: especie → preparación → siguiente paso.
+Diseñado para fichas de ingrediente, recetas, consulta para chefs, presentaciones y empaque. «Conocer la seta. Imaginar el plato.» es el principio de lectura: especie → preparación → siguiente paso.
 
 - **Contratos obligatorios:**
   - Papel `--surface-page`, tinta `--text-primary`, firma/acción `--brand-primary`. Terracota gráfica `--brand-accent`; texto de acento `--brand-accent-text`. Los valores vienen de los tokens vigentes, no de hex históricos.

diff --git a/08_brand/ds-2026/README.md b/08_brand/ds-2026/README.md
@@ -9,7 +9,7 @@ El **Design System canónico** unificado de Setas de la Peña: un solo núcleo d
 
 ## Mercado y cocina · 2026.1.5
 
-«Conoce la seta. Imagina el plato.» se traduce en componentes CSS reutilizables:
+«Conocer la seta. Imaginar el plato.» se traduce en componentes CSS reutilizables:
 
 - `.sdp-market-intro`: propuesta, explicación y acciones legibles.
 - `.sdp-ingredient-sheet`: especie, perfil con fuente, preparación y consulta.

diff --git a/field-os-simulador/setas-os/ds-2026/README.md b/field-os-simulador/setas-os/ds-2026/README.md
@@ -9,7 +9,7 @@ El **Design System canónico** unificado de Setas de la Peña: un solo núcleo d
 
 ## Mercado y cocina · 2026.1.5
 
-«Conoce la seta. Imagina el plato.» se traduce en componentes CSS reutilizables:
+«Conocer la seta. Imaginar el plato.» se traduce en componentes CSS reutilizables:
 
 - `.sdp-market-intro`: propuesta, explicación y acciones legibles.
 - `.sdp-ingredient-sheet`: especie, perfil con fuente, preparación y consulta.
